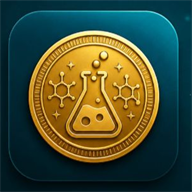
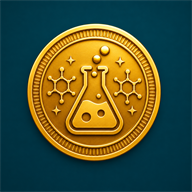
Ícone do MolBank adaptado para Android e iPhone

diff --git a/index.html b/index.html
@@ -7,7 +7,7 @@
 <meta name="theme-color" content="#0F4C5C">
 <meta name="description" content="MolBank: aprender química com sua turma de um jeito divertido.">
 <link rel="manifest" href="./manifest.webmanifest">
-<link rel="apple-touch-icon" href="./assets/molbank-icon-192.png">
+<link rel="apple-touch-icon" sizes="180x180" href="./assets/apple-touch-icon-180.png">
 <link rel="preconnect" href="https://fonts.googleapis.com">
 <link href="https://fonts.googleapis.com/css2?family=Space+Grotesk:wght@500;600;700&family=Inter:wght@400;500;600;700&display=swap" rel="stylesheet">
 <script src="./jsQR.js"></script>

diff --git a/service-worker.js b/service-worker.js
@@ -1,4 +1,4 @@
-const CACHE_NAME = 'molbank-shell-v3';
+const CACHE_NAME = 'molbank-shell-v4';
 const APP_SHELL = [
   './',
   './index.html',
@@ -8,7 +8,8 @@ const APP_SHELL = [
   './jsQR.js',
   './manifest.webmanifest',
   './assets/molbank-icon-192.png',
-  './assets/molbank-icon-512.png'
+  './assets/molbank-icon-512.png',
+  './assets/apple-touch-icon-180.png'
 ];
 
 self.addEventListener('install', (event) => {
